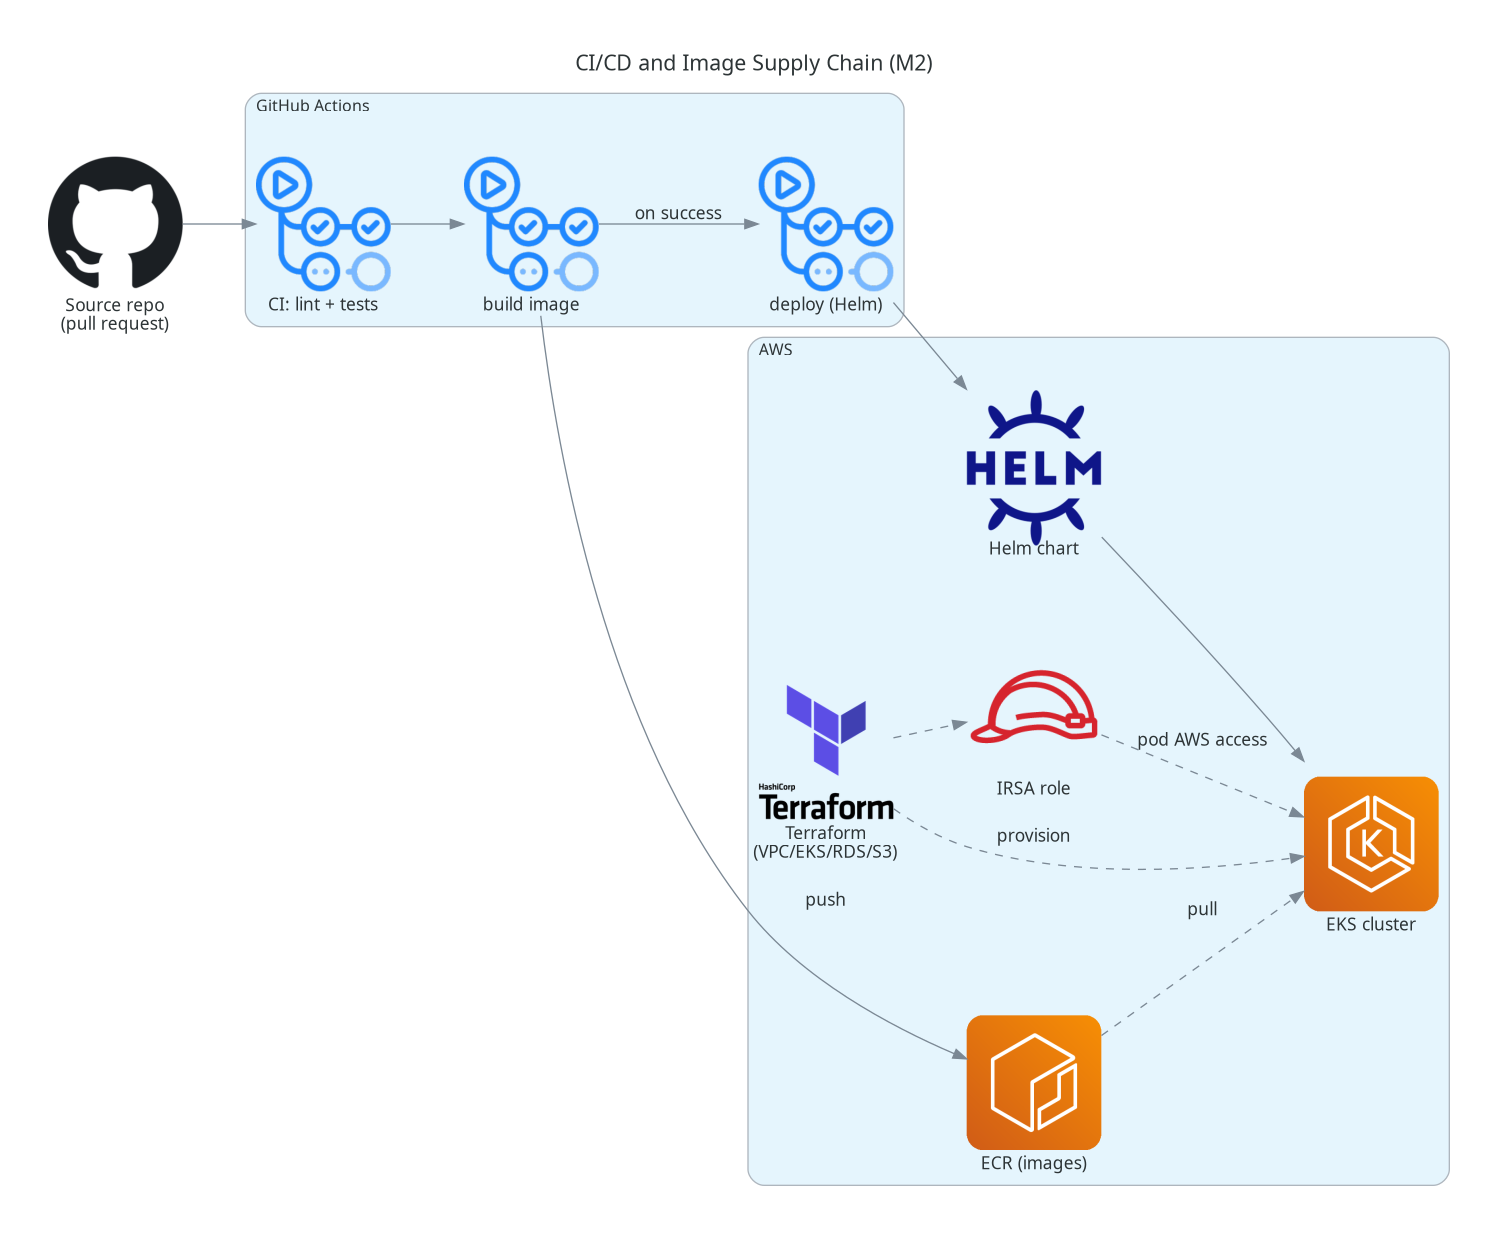
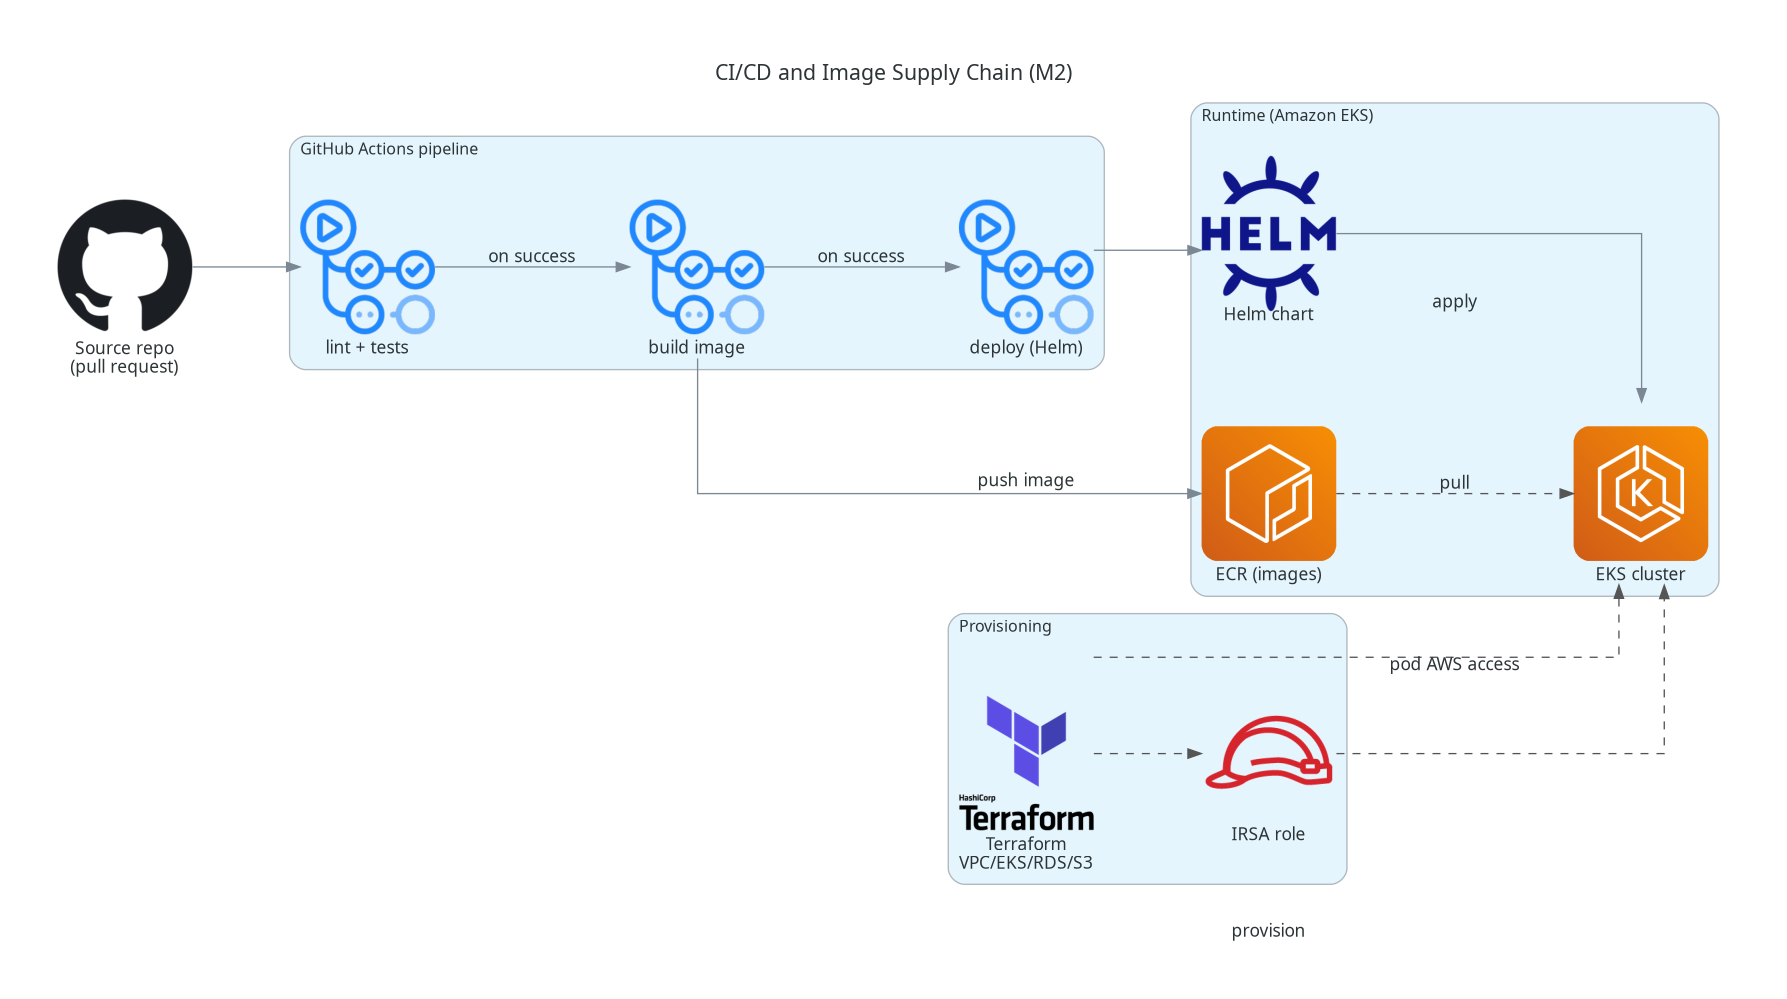
docs: clarify CI/CD and Phase 2 diagrams (orthogonal routing, clearer grouping)
CI/CD: split into a build-and-deploy pipeline lane and a provisioning lane,
switch to orthogonal connectors, and shorten the image push/pull paths so the
GitHub Actions -> ECR -> Helm -> EKS flow reads cleanly.

Phase 2: lay out top-down with three labeled clusters (Phase 1 baseline,
proposed feature services, external/excluded), orthogonal connectors, pruned
edges, and excluded components (AGPL search, shell exec) grouped on their own.

diff --git a/docs/diagrams/src/phase2_features.py b/docs/diagrams/src/phase2_features.py
@@ -4,8 +4,9 @@ Generated with the `diagrams` library (https://diagrams.mingrammer.com/).
 Regenerate with: scripts/generate-diagrams.sh
 
 This track is exploratory and maintainer-gated; see
-docs/12-phase-2-feature-adoption.md. Red dashed nodes/edges are excluded from
-the default build (AGPL-sensitive or non-vendored) and shown only for context.
+docs/12-phase-2-feature-adoption.md. Left to right: client -> proposed feature
+services -> the Phase 1 baseline they build on, with AGPL/excluded components
+grouped on the right.
 """
 
 from __future__ import annotations
@@ -28,9 +29,16 @@ _RED = "#d93025"
 _GRAPH_ATTR = {
     "fontsize": "16",
     "labelloc": "t",
-    "pad": "0.5",
-    "splines": "spline",
+    "pad": "0.6",
+    "ranksep": "1.0",
+    "nodesep": "0.6",
+    "splines": "ortho",
 }
+
+_BASE = {"color": "#34a853"}
+_FEAT = {"color": "#4285f4"}
+_DASH_RED = {"style": "dashed", "color": _RED}
+_DASH = {"style": "dashed", "color": "#888888"}
 
 
 def main() -> None:
@@ -39,40 +47,52 @@ def main() -> None:
         filename=_OUT,
         outformat="png",
         show=False,
-        direction="LR",
+        direction="TB",
         graph_attr=_GRAPH_ATTR,
     ):
+        client = Client("M9 Web UI / API client")
+
+        with Cluster("Phase 2 feature services (proposed, gated)"):
+            agents = Deploy("M11 Agents + tools\n(sandboxed)")
+            rag = Deploy("M10 Retrieval / RAG")
+            mcp = Deploy("M12 MCP layer")
+            media = Deploy("M14 Media (optional)")
+            pim = Deploy("M13 PIM (optional)")
+
         with Cluster("Phase 1 baseline (committed)"):
             api = Deploy("control-plane API")
             vllm = Deploy("vLLM inference")
-            rds = RDS("PostgreSQL")
-            s3 = S3("S3")
+            pg = RDS("PostgreSQL")
+            s3 = S3("S3 artifacts")
             secrets = SecretsManager("Secrets Manager")
-
-        with Cluster("Phase 2 product features (proposed, gated)"):
-            gui = Client("M9 Web UI / API client")
-            rag = Deploy("M10 Retrieval / RAG")
-            agents = Deploy("M11 Agents + tools\n(sandboxed)")
-            mcp = Deploy("M12 MCP layer")
-            pim = Deploy("M13 PIM integrations\n(optional)")
-            media = Deploy("M14 Media services\n(optional)")
 
         with Cluster("External / excluded by default"):
             vec = RDS("Vector store\n(pgvector / managed)")
-            search = Server("External search\n(AGPL, not vendored)")
-            shell = Blank("Arbitrary shell exec\n(EXCLUDED)")
+            search = Server("Search (AGPL,\nnot vendored)")
+            shell = Blank("Shell exec\n(EXCLUDED)")
 
-        gui >> api
-        api >> agents
-        agents >> Edge(label="internal-only") >> vllm
-        agents >> mcp
-        agents >> rag
-        rag >> vec
-        rag >> s3
-        media >> vllm
-        pim >> Edge(style="dashed", label="hardened secret + URL layer") >> secrets
-        mcp >> Edge(style="dashed", label="opt-in, per-tenant") >> search
-        agents >> Edge(style="dashed", color=_RED, label="excluded (multi-tenant)") >> shell
+        # Primary request path
+        client >> Edge(**_FEAT) >> api
+        api >> Edge(**_FEAT) >> agents
+
+        # Agent orchestration to feature services and inference
+        agents >> Edge(**_FEAT) >> rag
+        agents >> Edge(**_FEAT) >> mcp
+        agents >> Edge(label="internal-only", **_BASE) >> vllm
+
+        # Optional features
+        api >> Edge(**_FEAT) >> media
+        api >> Edge(**_FEAT) >> pim
+        media >> Edge(**_BASE) >> vllm
+
+        # Backend dependencies
+        rag >> Edge(**_FEAT) >> vec
+        rag >> Edge(**_BASE) >> s3
+        pim >> Edge(label="hardened secret + URL", **_DASH) >> secrets
+
+        # External and excluded
+        mcp >> Edge(label="opt-in, per-tenant", **_DASH) >> search
+        agents >> Edge(label="excluded (multi-tenant)", **_DASH_RED) >> shell
 
 
 if __name__ == "__main__":

diff --git a/docs/diagrams/src/cicd_pipeline.py b/docs/diagrams/src/cicd_pipeline.py
@@ -3,8 +3,8 @@
 Generated with the `diagrams` library (https://diagrams.mingrammer.com/).
 Regenerate with: scripts/generate-diagrams.sh
 
-Shows how code reaches the EKS baseline: CI lint/test, image build and push to
-ECR, Helm-based deploy, and Terraform-provisioned infrastructure and IRSA.
+Two clear lanes: a build-and-deploy pipeline (GitHub Actions -> ECR -> Helm ->
+EKS) and an infrastructure-provisioning lane (Terraform -> EKS + IRSA).
 """
 
 from __future__ import annotations
@@ -24,9 +24,13 @@ _OUT = os.path.join(os.path.dirname(__file__), "..", "cicd_pipeline")
 _GRAPH_ATTR = {
     "fontsize": "16",
     "labelloc": "t",
-    "pad": "0.5",
-    "splines": "spline",
+    "pad": "0.6",
+    "ranksep": "1.1",
+    "nodesep": "0.8",
+    "splines": "ortho",
 }
+
+_DASH = {"style": "dashed", "color": "#555555"}
 
 
 def main() -> None:
@@ -40,26 +44,27 @@ def main() -> None:
     ):
         repo = Github("Source repo\n(pull request)")
 
-        with Cluster("GitHub Actions"):
-            ci = GithubActions("CI: lint + tests")
+        with Cluster("GitHub Actions pipeline"):
+            ci = GithubActions("lint + tests")
             build = GithubActions("build image")
             deploy = GithubActions("deploy (Helm)")
+            ci >> Edge(label="on success") >> build >> Edge(label="on success") >> deploy
 
-        with Cluster("AWS"):
+        with Cluster("Runtime (Amazon EKS)"):
             ecr = ECR("ECR (images)")
-            eks = EKS("EKS cluster")
-            irsa = IAMRole("IRSA role")
-            tf = Terraform("Terraform\n(VPC/EKS/RDS/S3)")
             helm = Helm("Helm chart")
+            eks = EKS("EKS cluster")
 
-        repo >> ci >> build
-        build >> Edge(label="push") >> ecr
-        build >> Edge(label="on success") >> deploy
-        deploy >> helm >> eks
-        ecr >> Edge(style="dashed", label="pull") >> eks
-        tf >> Edge(style="dashed", label="provision") >> eks
-        tf >> Edge(style="dashed") >> irsa
-        irsa >> Edge(style="dashed", label="pod AWS access") >> eks
+        with Cluster("Provisioning"):
+            tf = Terraform("Terraform\nVPC/EKS/RDS/S3")
+            irsa = IAMRole("IRSA role")
+
+        repo >> ci
+        build >> Edge(label="push image") >> ecr
+        deploy >> helm >> Edge(label="apply") >> eks
+        ecr >> Edge(label="pull", **_DASH) >> eks
+        tf >> Edge(label="provision", **_DASH) >> eks
+        tf >> Edge(**_DASH) >> irsa >> Edge(label="pod AWS access", **_DASH) >> eks
 
 
 if __name__ == "__main__":
